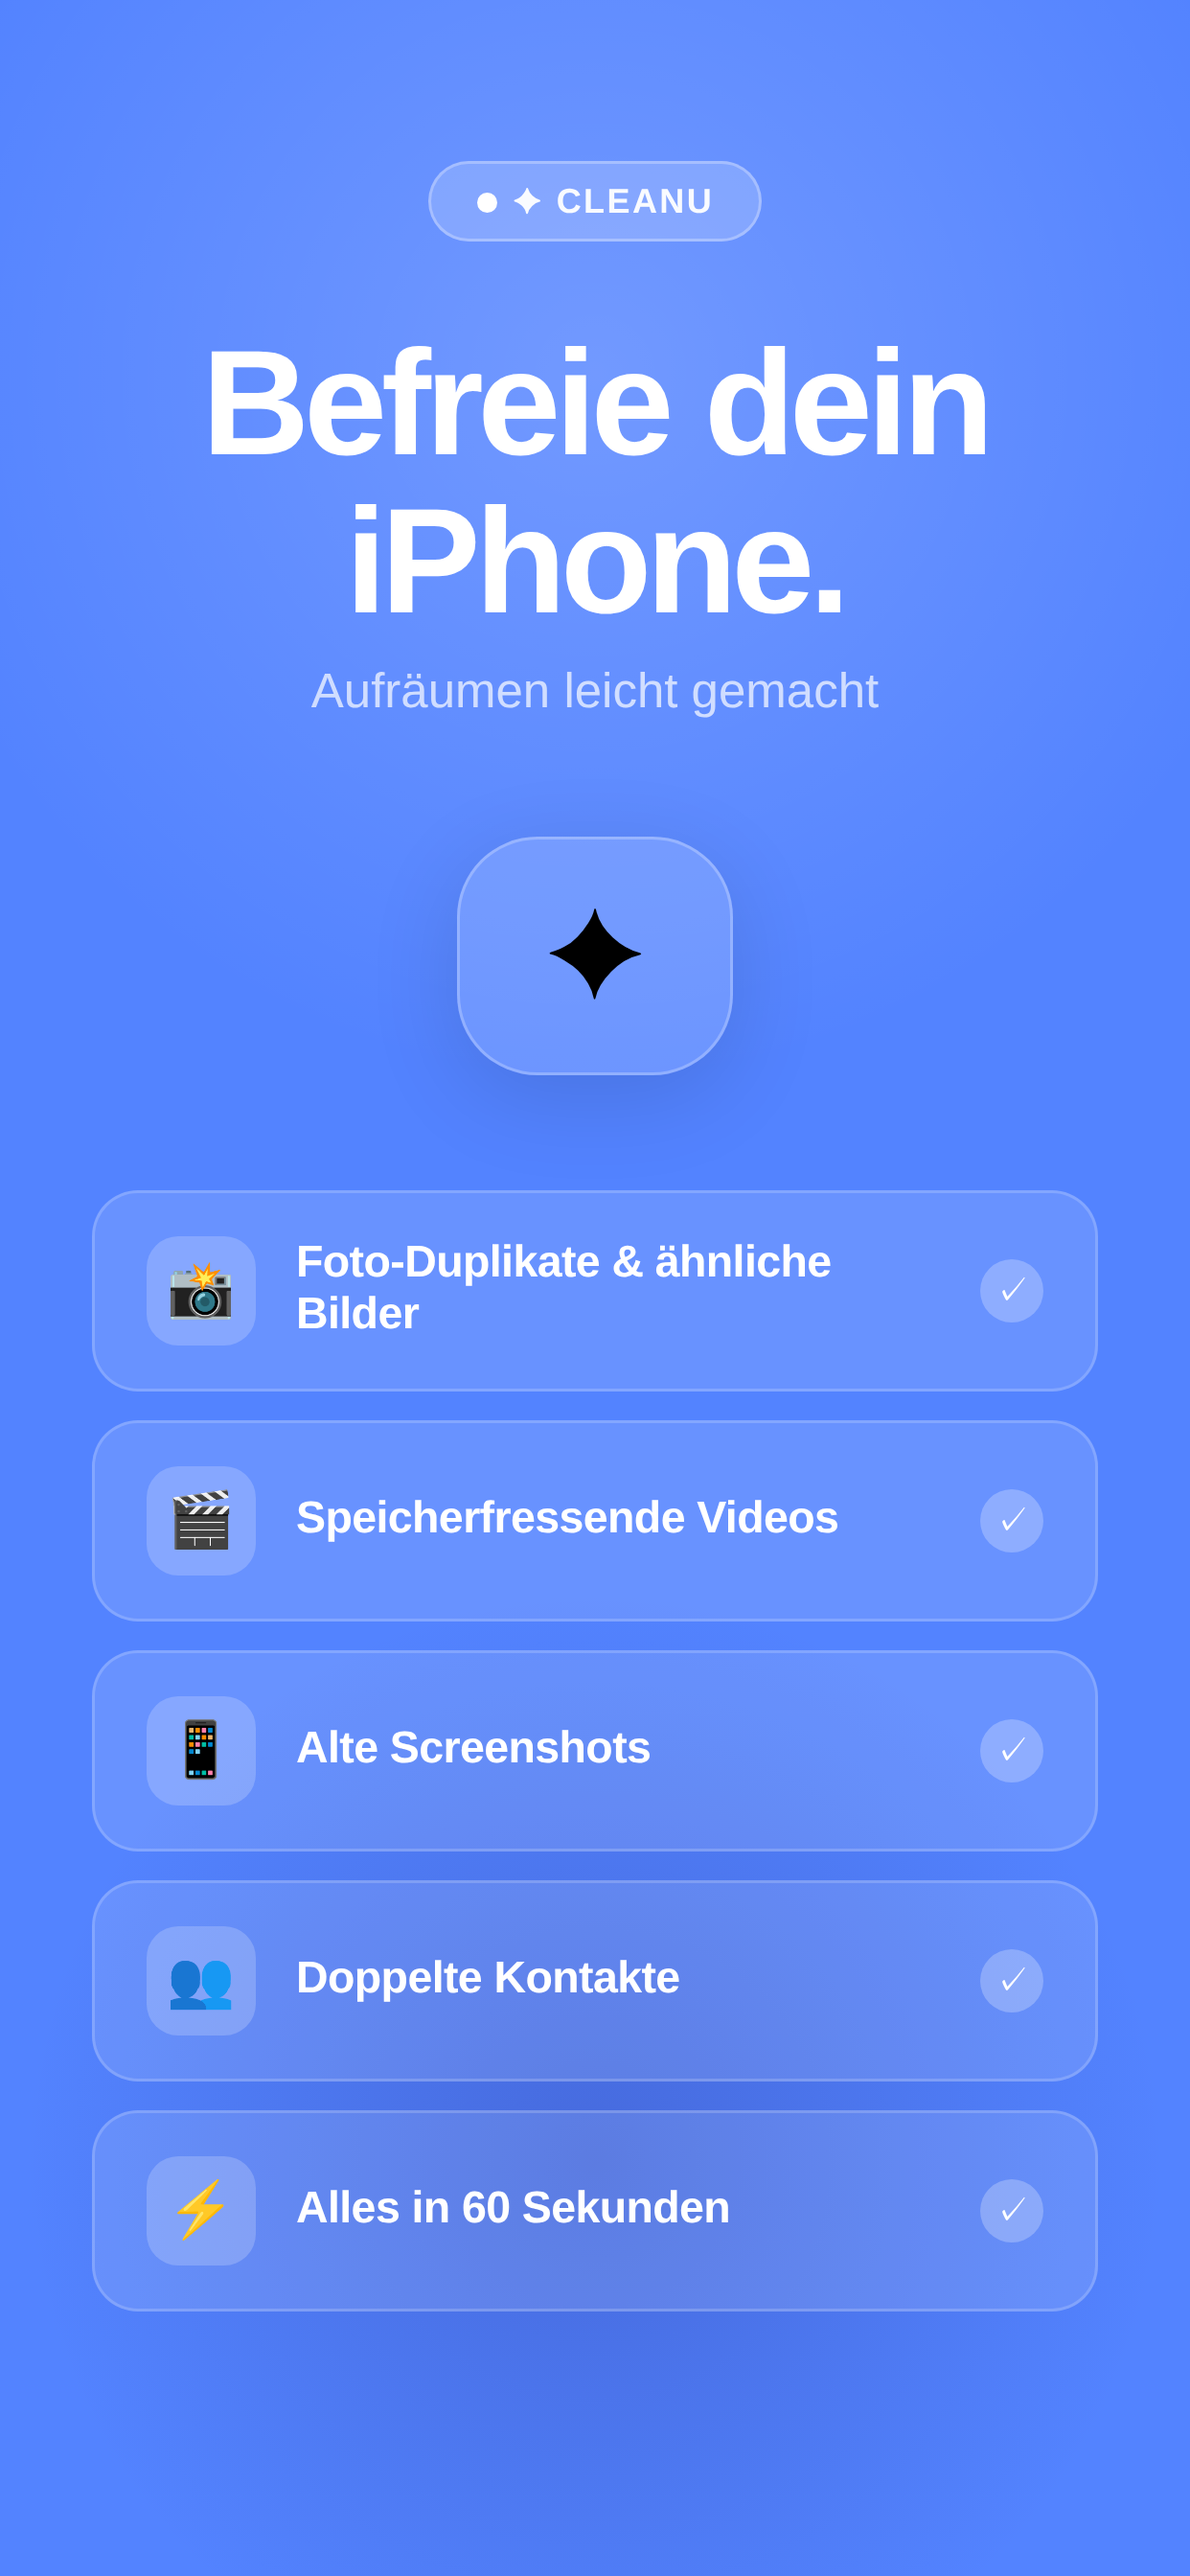
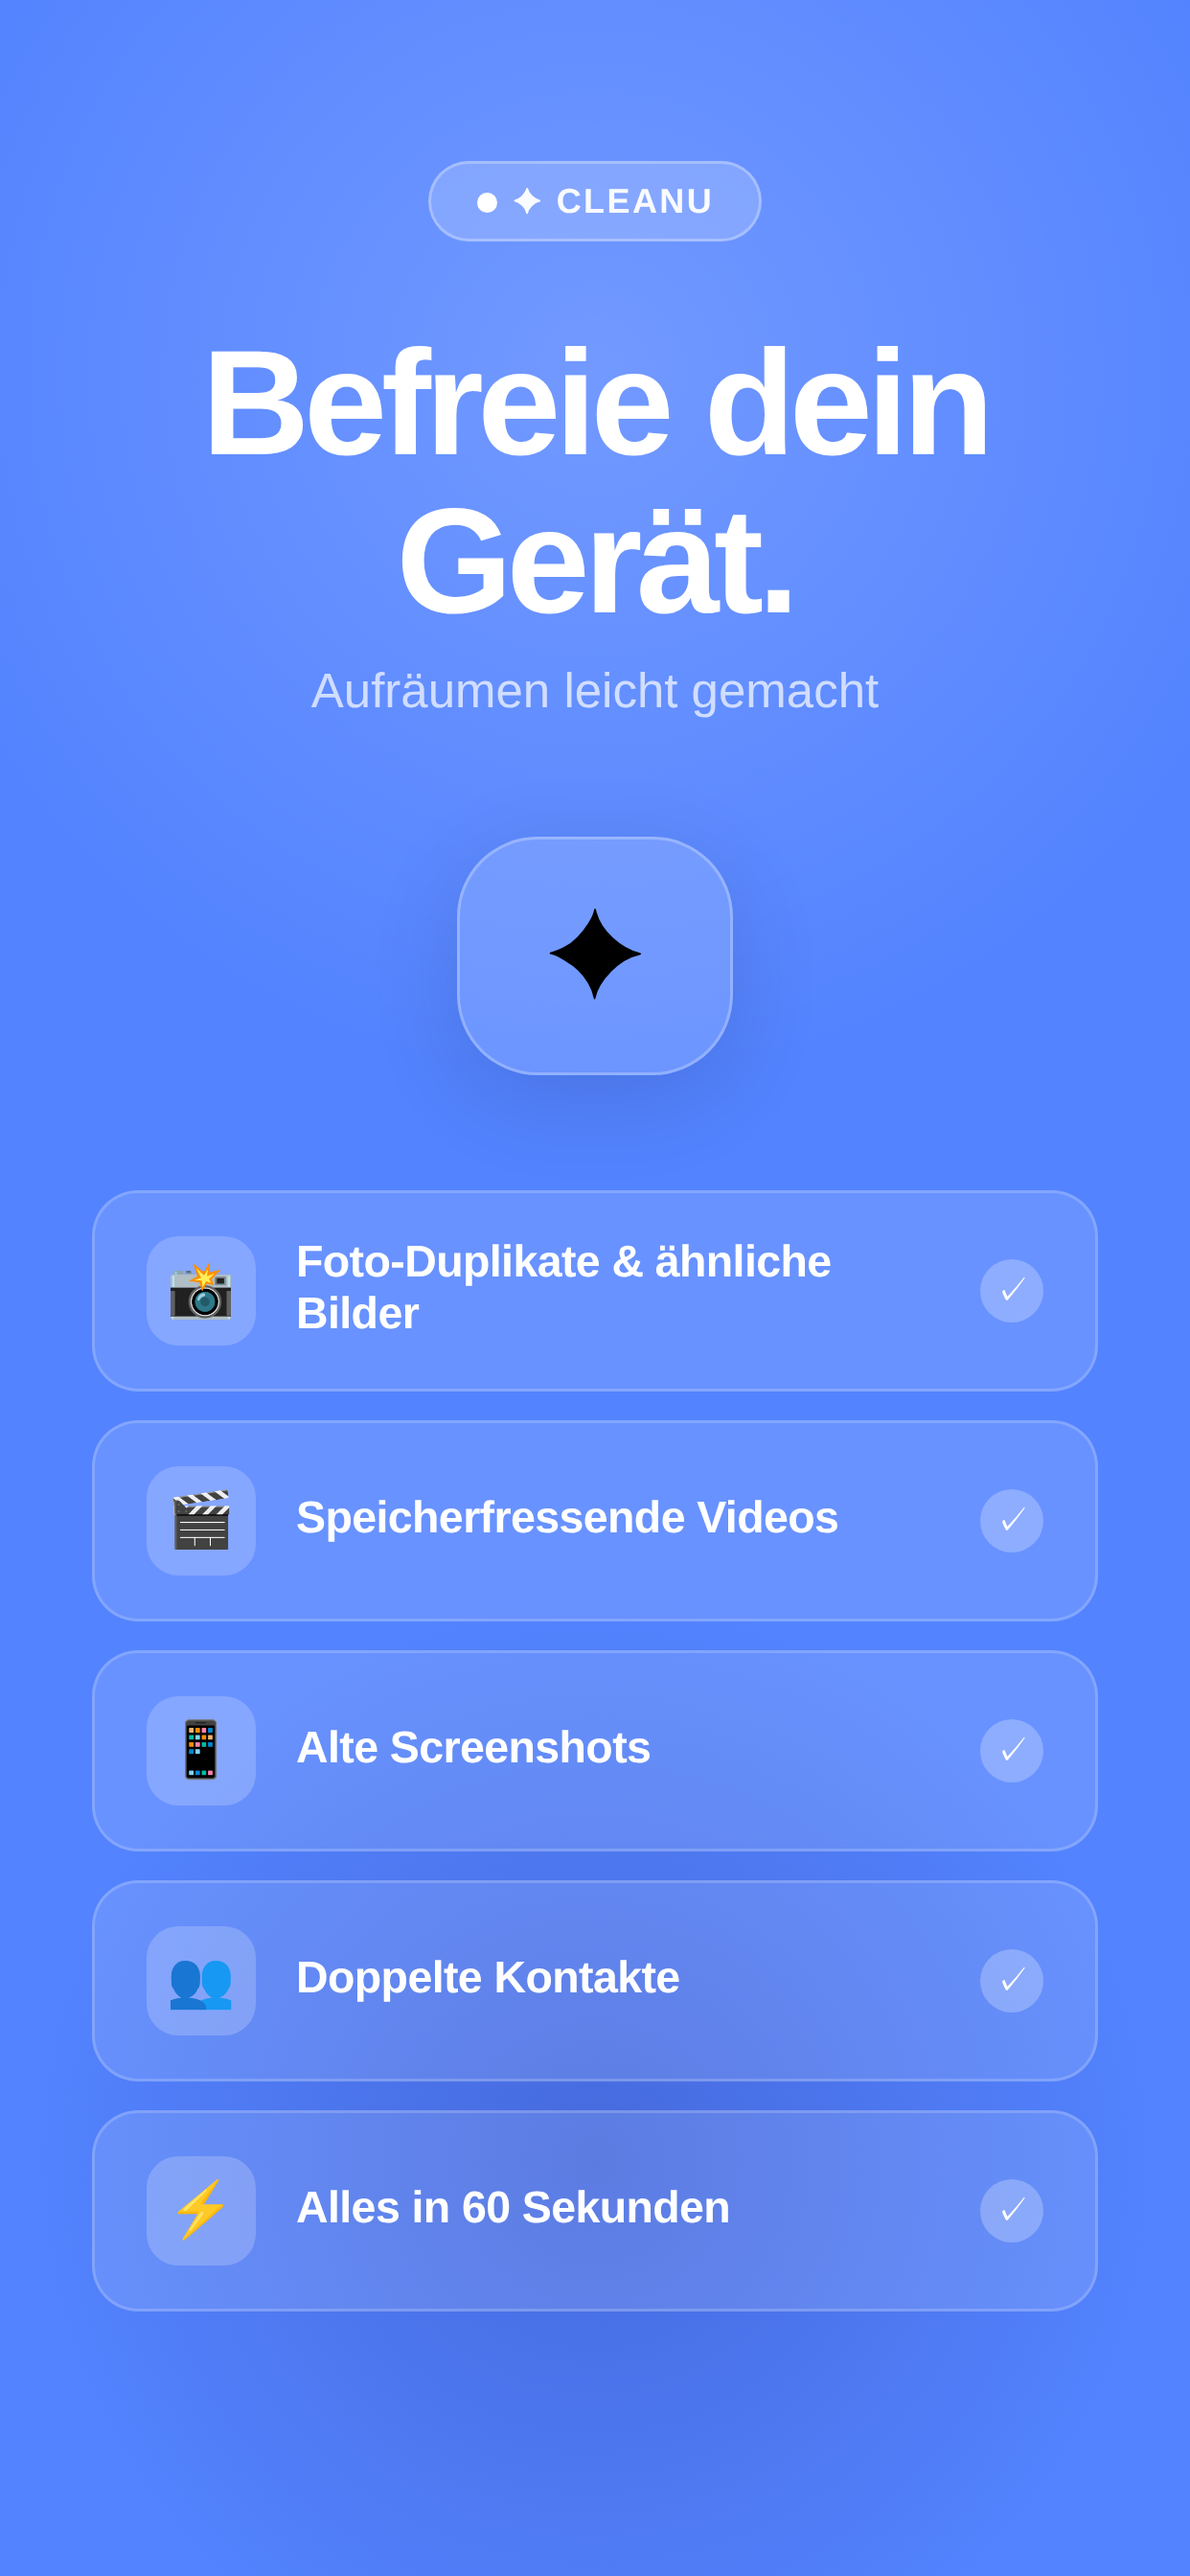
fix: slide1 iPhone → Device/Gerät/Cihaz — alle 3 Sprachen

Changed region(s): [[0.2754, 0.1875, 0.7037, 0.25]]

diff --git a/frontend/assets/screenshot_slide_tr.html b/frontend/assets/screenshot_slide_tr.html
@@ -164,7 +164,7 @@
       <span class="badge-text">✦ CleanU</span>
     </div>
 
-    <div class="headline">iPhone'unu<br>özgür bırak.</div>
+    <div class="headline">Cihazını<br>özgür bırak.</div>
     <div class="subheadline">Temizlik artık kolay</div>
 
     <div class="icon-wrap">✦</div>

diff --git a/frontend/assets/screenshot_slide.html b/frontend/assets/screenshot_slide.html
@@ -164,7 +164,7 @@
       <span class="badge-text">✦ CleanU</span>
     </div>
 
-    <div class="headline">Befreie dein<br>iPhone.</div>
+    <div class="headline">Befreie dein<br>Gerät.</div>
     <div class="subheadline">Aufräumen leicht gemacht</div>
 
     <div class="icon-wrap">✦</div>

diff --git a/frontend/assets/screenshot_slide_en.html b/frontend/assets/screenshot_slide_en.html
@@ -164,7 +164,7 @@
       <span class="badge-text">✦ CleanU</span>
     </div>
 
-    <div class="headline">Free your<br>iPhone.</div>
+    <div class="headline">Free your<br>Device.</div>
     <div class="subheadline">Cleaning made easy</div>
 
     <div class="icon-wrap">✦</div>
